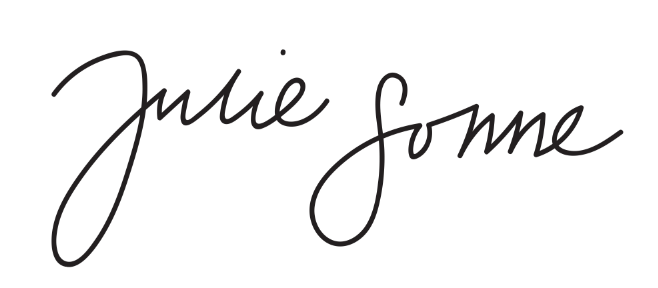
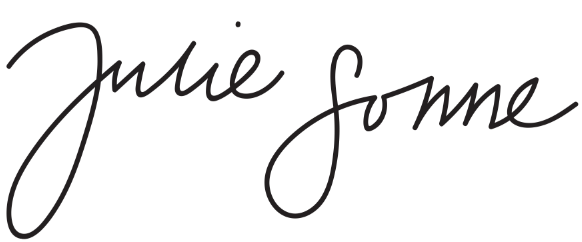
upload

diff --git a/pages/omkring.html b/pages/omkring.html
@@ -21,9 +21,8 @@
 	<div class="row">
 		<div class="col-12 col-md-3 col-lg-3 justify-content-center navPlacering">
 			<a href="../index.html" class="logo">
-				<img src="../images/name.png" alt="">
-				<!--<h1>Julie Sonne</h1>-->
-				<!--<p class="subtitle">Content Producer</p>-->
+				<h1>Julie Sonne</h1>
+				<p class="subtitle">Content Producer</p>
 			</a>
 		</div>
 		<div class="col-9 navPlacering">
@@ -48,8 +47,9 @@
 			<div class="col-11 col-md-5 col-lg-5 projektBilleder">
 				<img src="../images/omkring.jpg" alt="tekst">
 			</div>
-			<div class="col-11 col-md-7 col-lg-7 skub3">
-				<h1>Julie Sonne</h1>
+			<div class="col-11 col-md-7 col-lg-7 skub3 name">
+				<img src="../images/name.png" alt="">
+				<!--<h1>Julie Sonne</h1>-->
 				<p>Lorem ipsum dolor sit amet, consectetur adipisicing elit. Libero quibusdam culpa a earum, et, aspernatur maxime iste soluta in, ipsam nam similique quia? Rerum in deserunt adipisci dolore est amet quos aliquam fuga dignissimos porro. Lorem ipsum dolor sit amet, consectetur adipisicing elit. Sapiente autem quos iure quisquam, voluptas. Quaerat ab eum ex rerum, quia atque porro distinctio, aliquid dolores amet placeat laborum, blanditiis totam quasi aspernatur tenetur in. Quos quo necessitatibus adipisci neque expedita debitis libero facere dolorem, sed.</p>
 			</div>
 		</div>

diff --git a/styles/styles.css b/styles/styles.css
@@ -38,8 +38,9 @@ p {
 	text-decoration: none;
 	color: black;
 }
-.logo img {
-	width: 95%;
+											/*Name*/
+.name img {
+	width: 50%;
 	height: auto;
 }
 											/*Navigation*/
